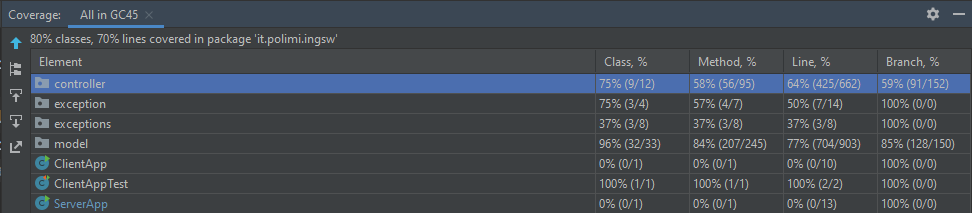
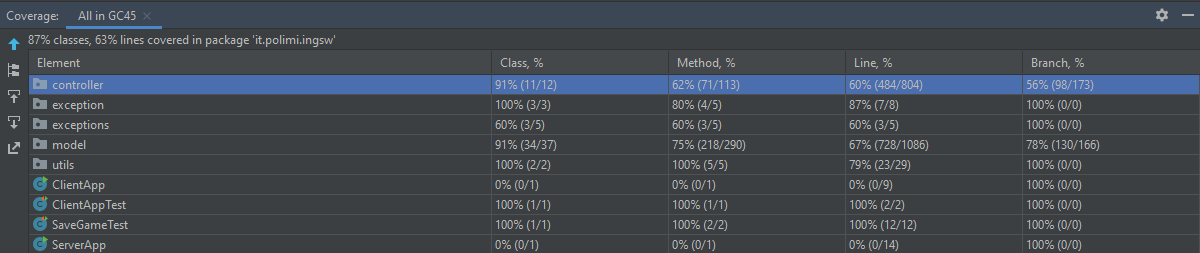
Fixed test cases.

diff --git a/src/test/java/it/polimi/ingsw/controllerTest/RoundControllerTest.java b/src/test/java/it/polimi/ingsw/controllerTest/RoundControllerTest.java
@@ -85,13 +85,15 @@ public class RoundControllerTest {
 
     @Test
     public void checkWinnerMultiplayer() {
-        GameBoard gb = new GameBoard();
+        GameController gc = new GameController(false);
+        GameBoard gb = gc.getInstance();
+        RoundController g = new RoundController(gb, gc);
         gb.addPlayer(new HumanPlayer("Harry", false));
         gb.addPlayer(new HumanPlayer("Enry", true));
         gb.addPlayer(new HumanPlayer("Ron", false));
         gb.addPlayer(new HumanPlayer("Hermione", false));
         gb.init(gb);
-        RoundController g = new RoundController(gb, new GameController(false));
+
         g.init();
         assertEquals(g.getGameState(), GameState.MULTIPLAYER);
         //first Turn
@@ -127,10 +129,11 @@ public class RoundControllerTest {
 
     @Test
     public void checkWinnerSinglePlayer(){
-        GameBoard gb=new GameBoard();
+        GameController gc = new GameController(false);
+        GameBoard gb = gc.getInstance();
         gb.addPlayer(new HumanPlayer("Harry",true));
         gb.init(gb);
-        RoundController g = new RoundController(gb, new GameController(false));
+        RoundController g = new RoundController(gb, gc);
         g.init();
         assertEquals(g.getGameState(), GameState.SINGLEPLAYER);
         //first Turn

diff --git a/src/main/java/it/polimi/ingsw/controller/RoundController.java b/src/main/java/it/polimi/ingsw/controller/RoundController.java
@@ -355,7 +355,6 @@ public class RoundController implements Serializable {
         productions.clear();
         clearTemporaryStorage();
 
-
         if (gameState.equals(GameState.SINGLEPLAYER))
             handle_Bot();
         else
